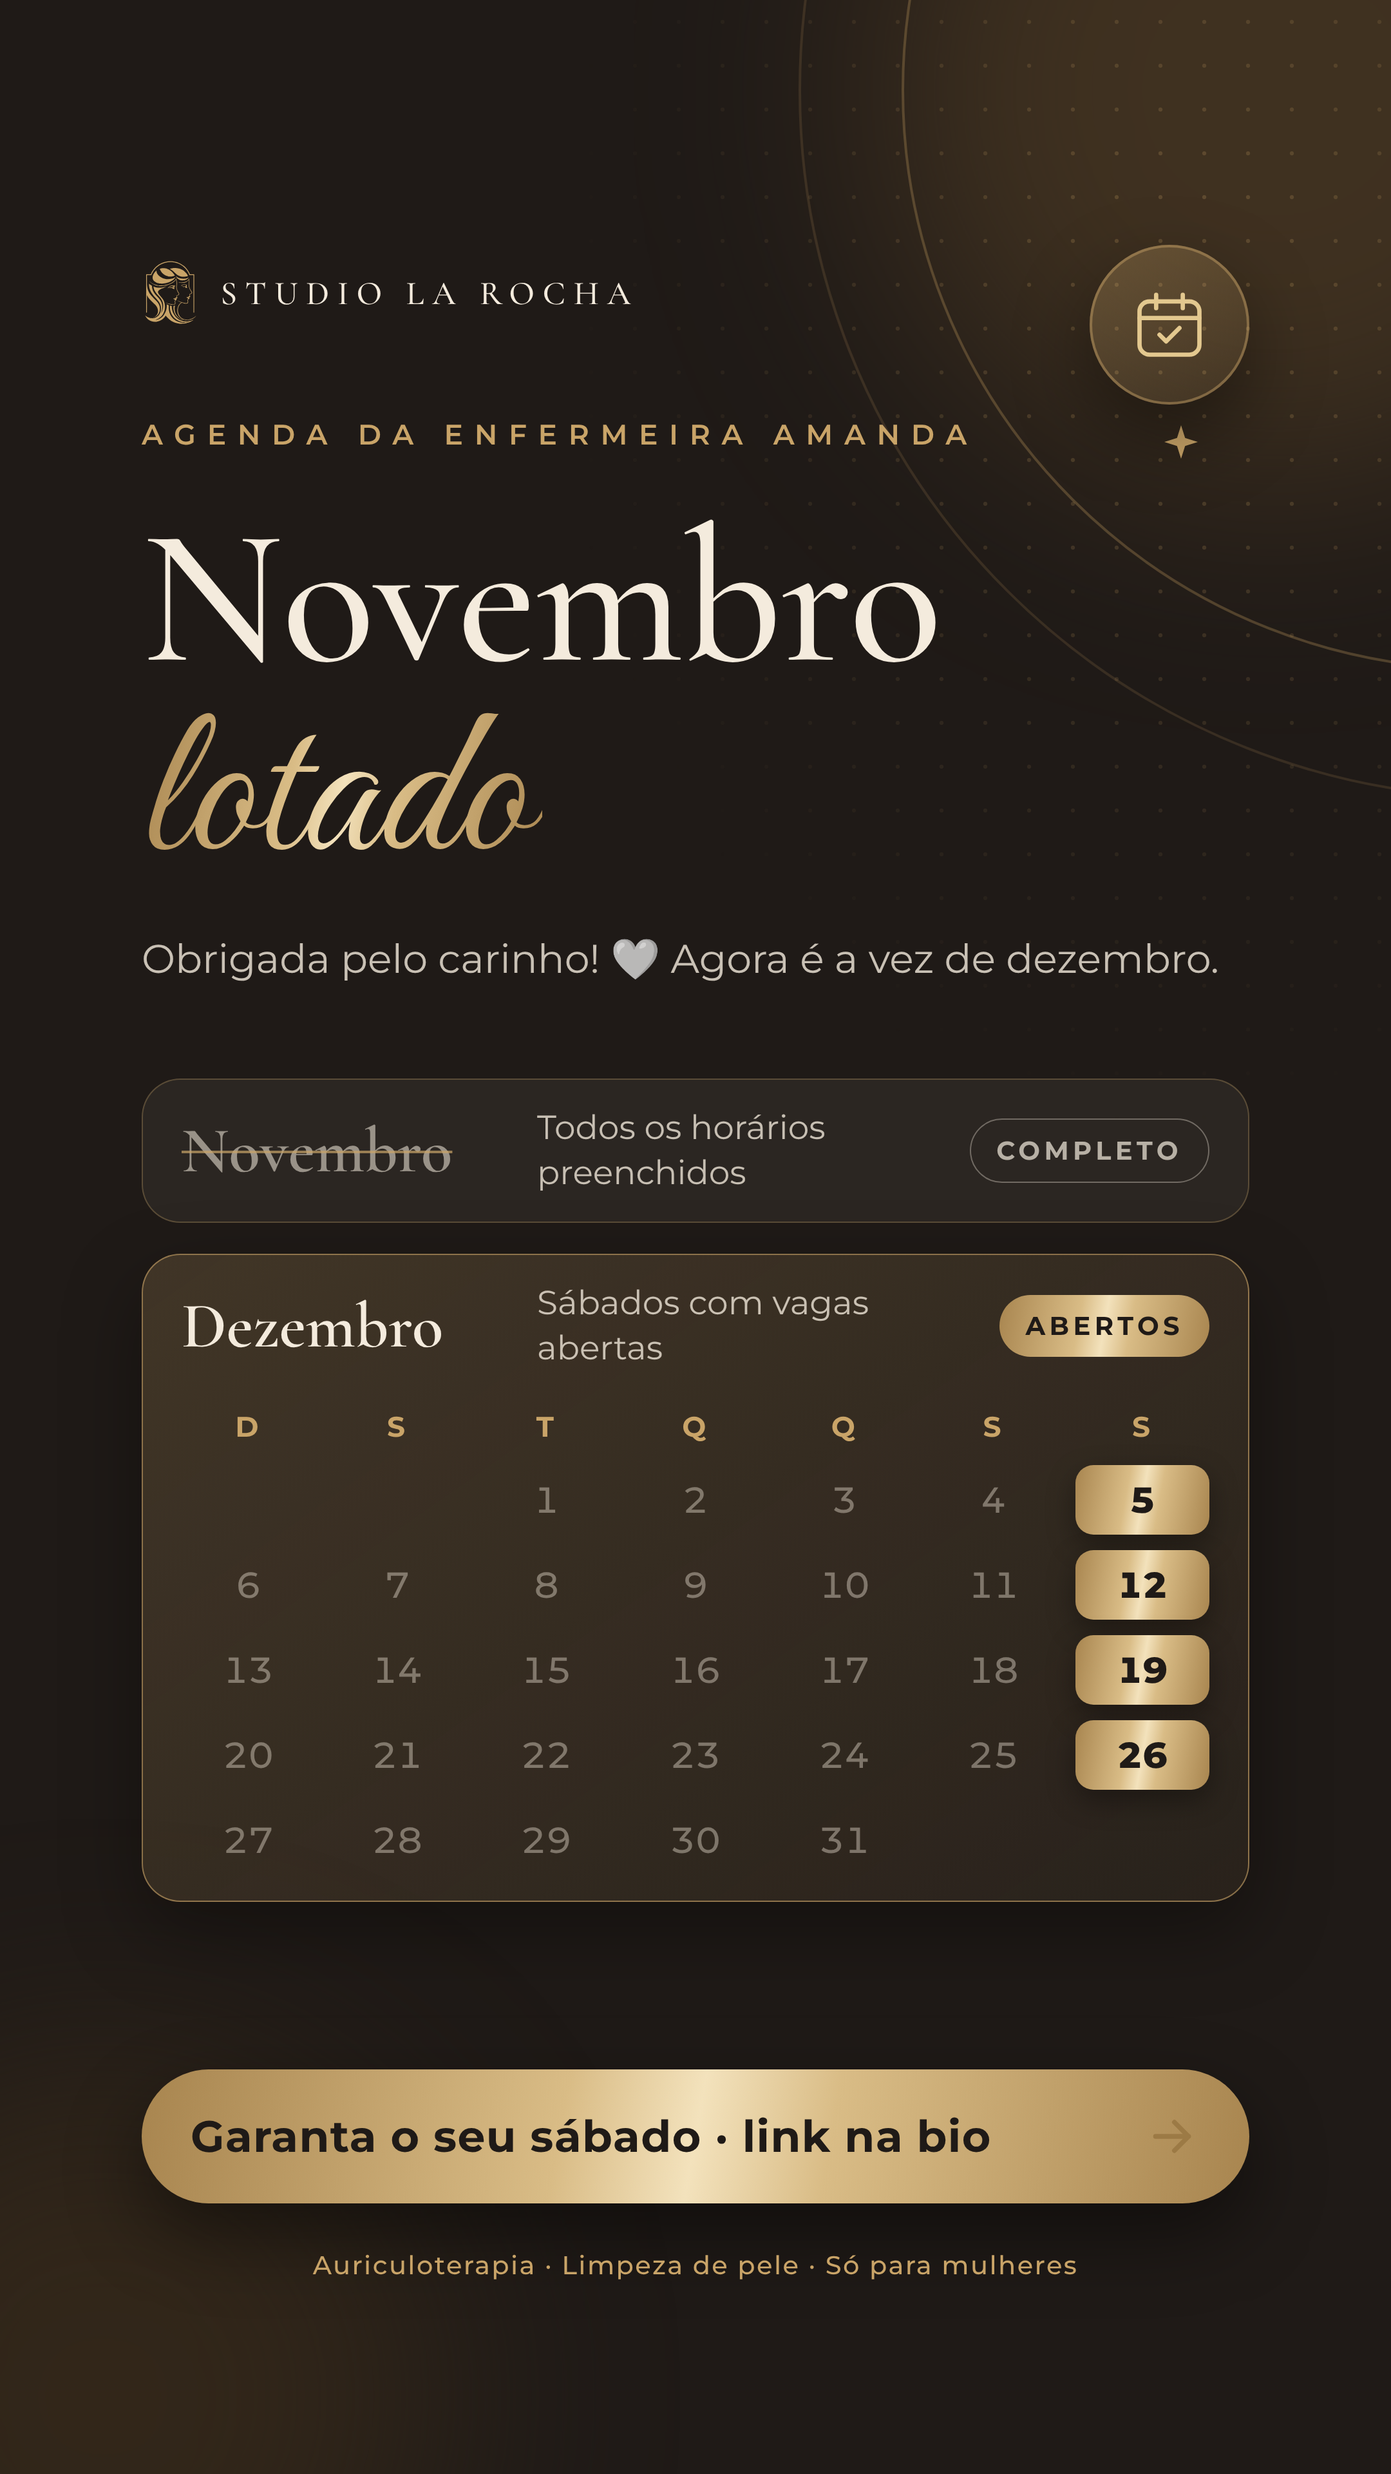
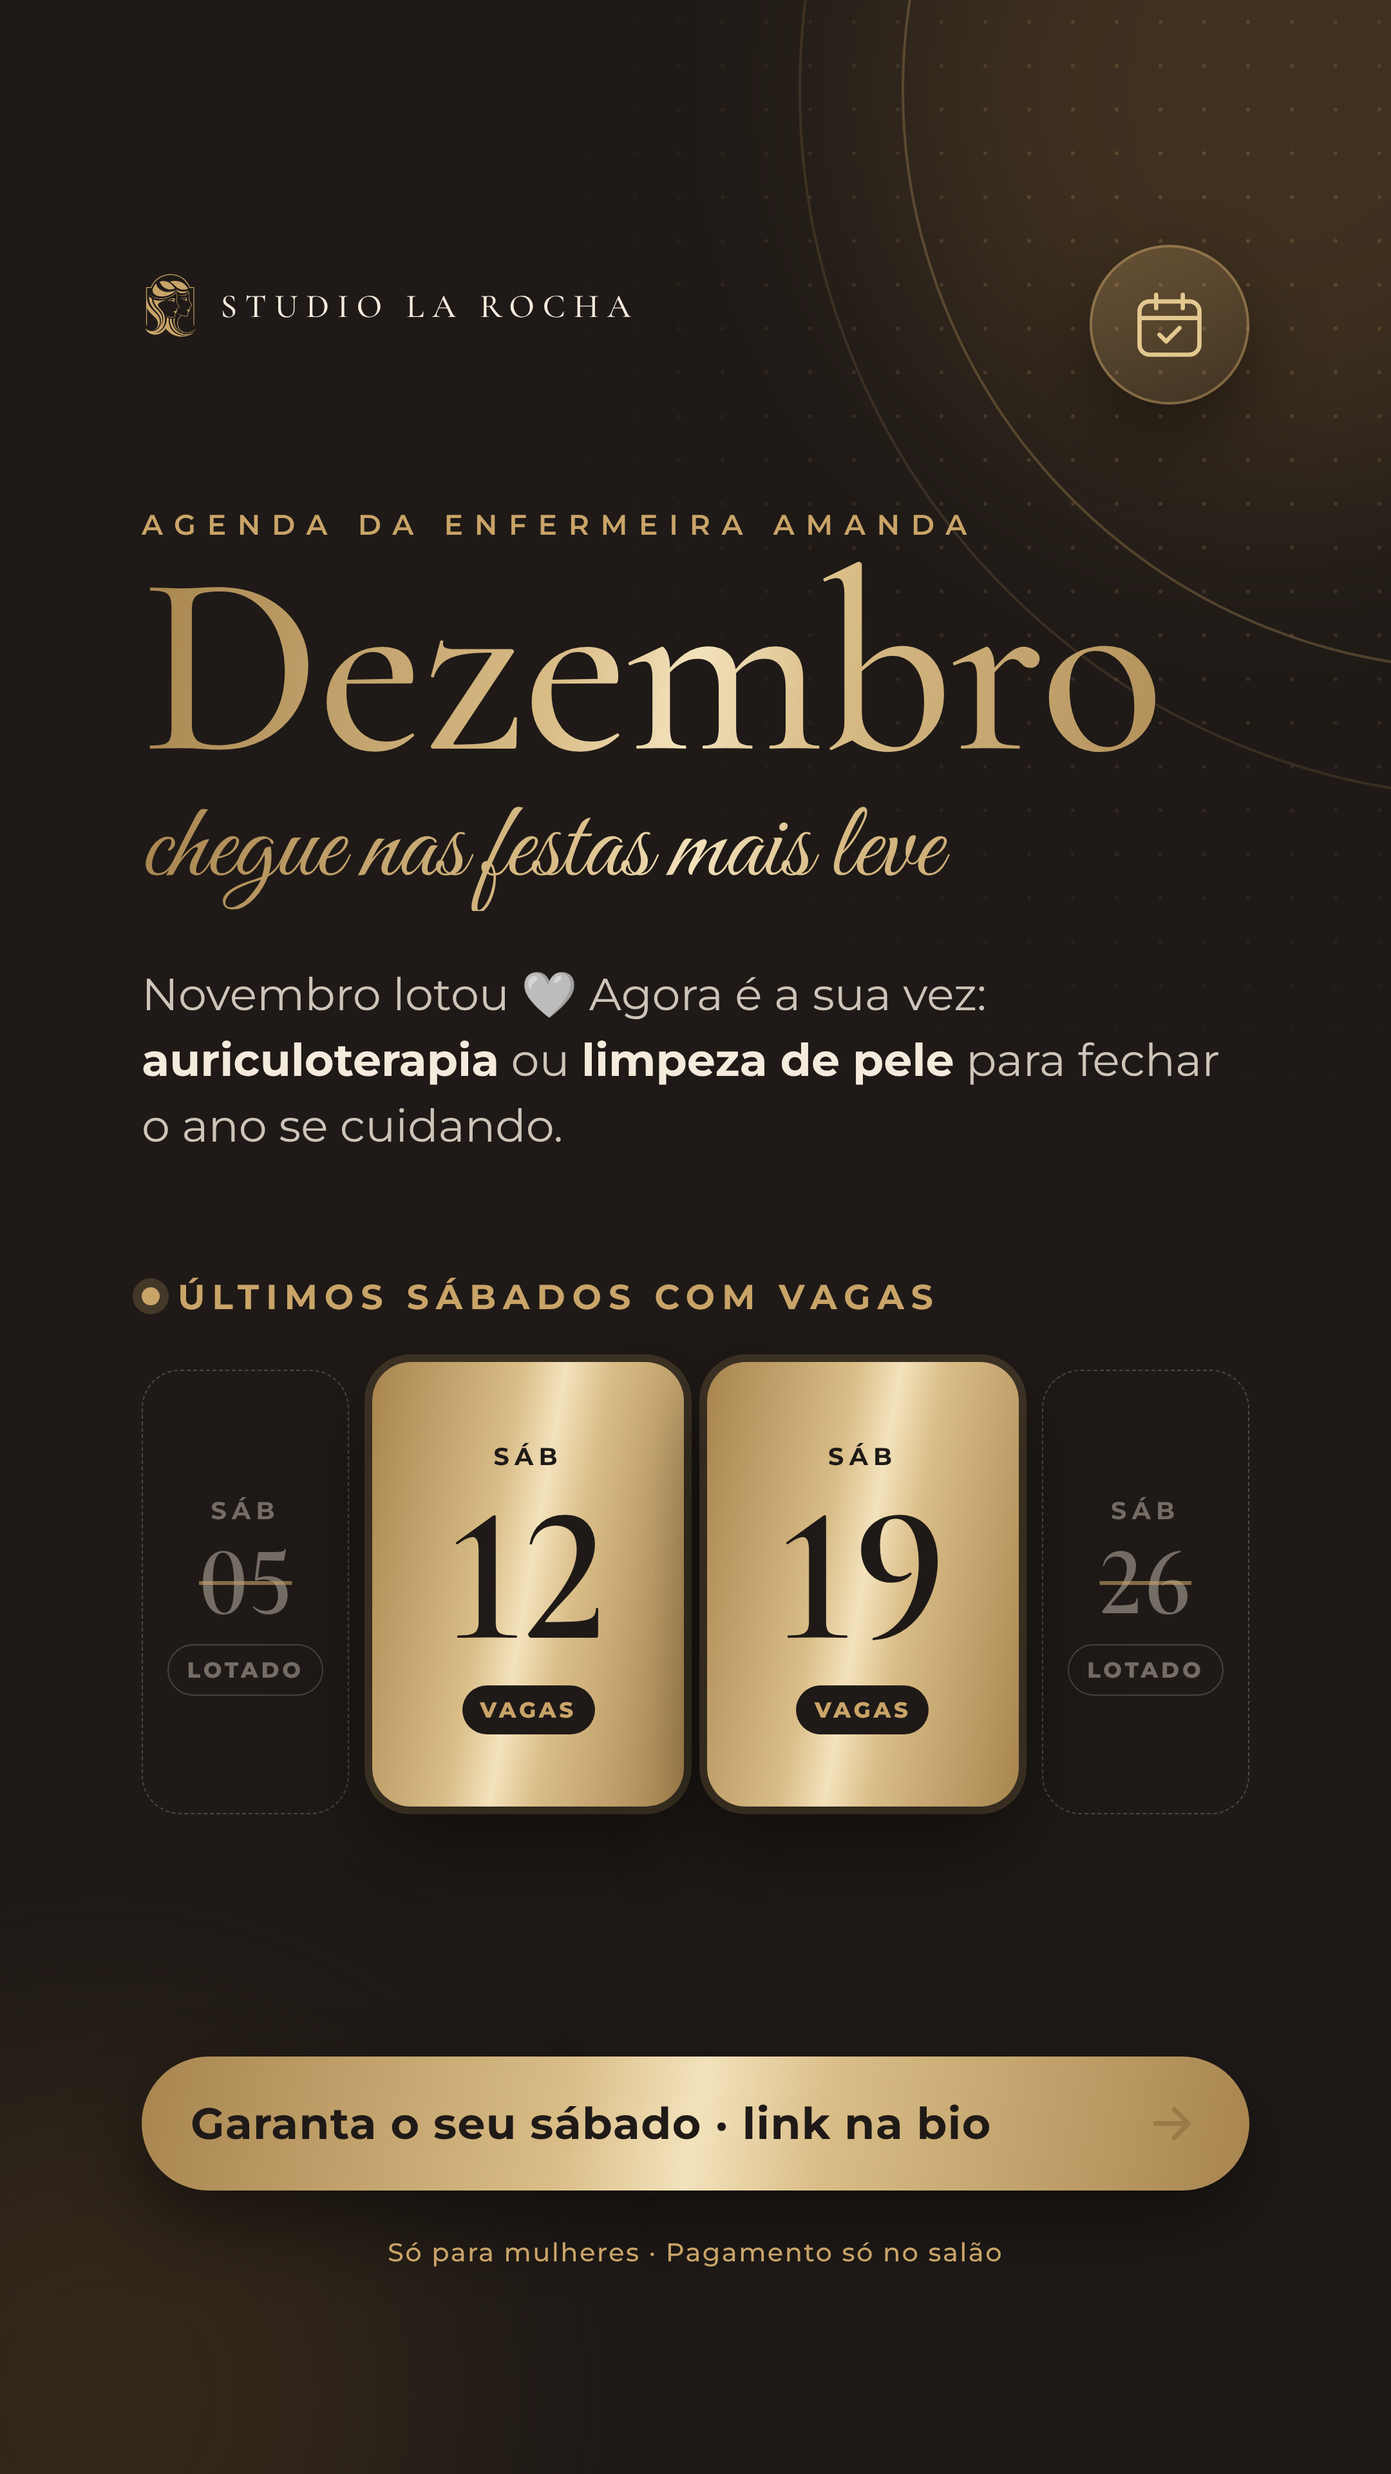
Aviso de agenda: dezembro em destaque, vagas só nos sábados 12 e 19
Claude-Session: https://claude.ai/code/session_01XzVqx6kG6obyTxXfpJ6DA2

diff --git a/instagram/fonte/aviso-agenda.html b/instagram/fonte/aviso-agenda.html
@@ -134,58 +134,61 @@
   .claro .aviso { color: var(--bronze); } .escuro .aviso { color: var(--ouro-c); }
 </style>
 <style>
-  .story { height: 1920px; padding-top: 200px; }
-  .ag .rotulo { margin-top: 70px; }
-  .ag .gancho { margin-top: 16px; font-size: 128px; }
-  .ag .sub2 { margin-top: 18px; font-size: 31px; line-height: 1.45; color: rgba(244,235,221,.8); }
-  .linhas { margin-top: 34px; display: grid; gap: 16px; }
-  .linha { display: flex; align-items: center; gap: 26px; padding: 20px 30px; border-radius: 30px; background: rgba(244,235,221,.06); border: 1.5px solid rgba(201,164,104,.3); }
-  .linha .mes { font-family: "Cormorant"; font-weight: 600; font-size: 50px; min-width: 250px; }
-  .linha .txt { flex: 1; font-size: 26px; line-height: 1.35; color: rgba(244,235,221,.78); }
-  .tag { flex: none; font-weight: 700; font-size: 20px; letter-spacing: .16em; text-transform: uppercase; padding: 12px 20px; border-radius: 99px; }
-  .tag.cheio { border: 1.5px solid rgba(244,235,221,.35); color: rgba(244,235,221,.7); }
-  .tag.aberto { background: var(--brilho); color: var(--escuro); }
-  .linha.off .mes { color: rgba(244,235,221,.55); text-decoration: line-through; text-decoration-thickness: 2px; text-decoration-color: rgba(201,164,104,.7); }
-  .linha.on { background: linear-gradient(145deg, rgba(201,164,104,.2), rgba(201,164,104,.06)); border-color: rgba(201,164,104,.6); box-shadow: 0 24px 60px rgba(0,0,0,.35); }
-  .cal { margin-top: 14px; display: grid; grid-template-columns: repeat(7, 1fr); gap: 4px 8px; text-align: center; }
-  .cal b { font-size: 18px; font-weight: 700; letter-spacing: .1em; color: var(--ouro-c); padding-bottom: 4px; }
-  .cal span { font-size: 22px; font-weight: 500; padding: 6px 0; border-radius: 14px; color: rgba(244,235,221,.4); font-variant-numeric: tabular-nums; }
-  .cal span.sab { background: var(--brilho); color: var(--escuro); font-weight: 800; box-shadow: 0 8px 22px rgba(0,0,0,.35); }
-  .cal span.vazio { visibility: hidden; }
-  .story .gancho { font-size: 150px; margin-top: 40px; }
-  .story .linhas { margin-top: 70px; gap: 24px; }
-  .story .cal { gap: 12px; margin-top: 30px; }
-  .story .cal span { font-size: 28px; padding: 10px 0; }
-  .story .cal b { font-size: 22px; }
-  .story .cta { bottom: 210px; }
-  .story .aviso { bottom: 150px; }
+  .story { height: 1920px; padding-top: 210px; }
+  .ag .rotulo { margin-top: 64px; }
+  .ag .mes { margin-top: 6px; font-family: "Cormorant"; font-weight: 500; font-size: 214px; line-height: .9; letter-spacing: -.01em; background: var(--brilho); -webkit-background-clip: text; background-clip: text; color: transparent; }
+  .ag .script { margin-top: 0; font-size: 74px; }
+  .ag .lead { margin-top: 26px; font-size: 31px; line-height: 1.45; color: rgba(244,235,221,.82); max-width: 860px; }
+  .ag .lead b { color: var(--marfim); }
+  .sabs { margin-top: 44px; display: grid; grid-template-columns: .8fr 1.2fr 1.2fr .8fr; gap: 16px; align-items: stretch; }
+  .sab { border-radius: 30px; text-align: center; padding: 24px 8px 22px; display: flex; flex-direction: column; align-items: center; justify-content: center; }
+  .sab small { font-weight: 700; font-size: 19px; letter-spacing: .22em; text-transform: uppercase; }
+  .sab strong { display: block; font-family: "Cormorant"; font-weight: 600; font-size: 92px; line-height: 1; margin: 6px 0 10px; font-variant-numeric: lining-nums; font-feature-settings: "lnum" 1; }
+  .sab span { font-weight: 800; font-size: 17px; letter-spacing: .14em; text-transform: uppercase; padding: 9px 14px; border-radius: 99px; }
+  .sab.off { border: 1.5px dashed rgba(244,235,221,.22); color: rgba(244,235,221,.4); }
+  .sab.off strong { font-size: 66px; text-decoration: line-through; text-decoration-thickness: 3px; text-decoration-color: rgba(201,164,104,.6); }
+  .sab.off span { border: 1.5px solid rgba(244,235,221,.2); }
+  .sab.on { background: var(--brilho); color: var(--escuro); box-shadow: 0 0 0 6px rgba(201,164,104,.18), 0 30px 70px rgba(0,0,0,.5); transform: translateY(-6px); }
+  .sab.on strong { font-size: 128px; }
+  .sab.on span { background: var(--escuro); color: var(--ouro-c); }
+  .story .mes { font-size: 200px; }
+  .story .rotulo { margin-top: 130px; }
+  .story .script { font-size: 84px; margin-top: 8px; }
+  .story .lead { font-size: 35px; margin-top: 40px; }
+  .story .sabs { margin-top: 40px; gap: 18px; }
+  .story .sab { padding: 62px 8px 56px; }
+  .story .sab.off strong { font-size: 76px; }
+  .story .sab.on strong { font-size: 150px; }
+  .story .cta { bottom: 220px; }
+  .story .aviso { bottom: 160px; }
   .story .selo-grande { top: 190px; }
+  .story .ultimas { margin-top: 90px; font-size: 27px; }
+  .ultimas { margin-top: 34px; display: inline-flex; align-items: center; gap: 14px; font-weight: 700; font-size: 24px; letter-spacing: .2em; text-transform: uppercase; color: var(--ouro-c); }
+  .ultimas i { width: 14px; height: 14px; border-radius: 50%; background: var(--ouro-c); box-shadow: 0 0 0 7px rgba(201,164,104,.22); }
 </style>
 </head>
 <body>
-<section class="post chamada escuro ag " id="agenda-feed"><i class="luz a"></i><i class="luz b"></i><div class="pontos"></div><div class="arco um"></div><div class="arco dois"></div><span class="faisca" style="width:26px;height:26px;top:330px;right:150px"><svg viewBox="0 0 10 10"><path fill="currentColor" d="M5 0l1.2 3.8L10 5 6.2 6.2 5 10 3.8 6.2 0 5l3.8-1.2z"/></svg></span>
+<section class="post chamada escuro ag " id="agenda-feed"><i class="luz a"></i><i class="luz b"></i><div class="pontos"></div><div class="arco um"></div><div class="arco dois"></div>
 <div class="topo"><div class="mini"><img src="simbolo-claro-transp.svg" alt="">STUDIO LA ROCHA</div></div>
 <div class="selo-grande"><svg viewBox="0 0 24 24" fill="none" stroke="#E3C88F" stroke-width="1.3" stroke-linecap="round" stroke-linejoin="round"><rect x="3" y="5" width="18" height="16" rx="3"/><path d="M3 10h18M8 3v4M16 3v4"/><path d="M9 15l2 2 4-4"/></svg></div>
 <div class="rotulo">Agenda da enfermeira Amanda</div>
-<h2 class="gancho">Novembro <em>lotado</em></h2>
-<p class="sub2">Obrigada pelo carinho! 🤍 Agora é a vez de dezembro.</p>
-<div class="linhas">
-  <div class="linha off"><span class="mes">Novembro</span><span class="txt">Todos os horários preenchidos</span><span class="tag cheio">Completo</span></div>
-  <div class="linha on"><div style="flex:1"><div style="display:flex;align-items:center;gap:26px"><span class="mes">Dezembro</span><span class="txt">Sábados com vagas abertas</span><span class="tag aberto">Abertos</span></div><div class="cal"><b>D</b><b>S</b><b>T</b><b>Q</b><b>Q</b><b>S</b><b>S</b><span class="vazio">0</span><span class="vazio">0</span><span>1</span><span>2</span><span>3</span><span>4</span><span class="sab">5</span><span>6</span><span>7</span><span>8</span><span>9</span><span>10</span><span>11</span><span class="sab">12</span><span>13</span><span>14</span><span>15</span><span>16</span><span>17</span><span>18</span><span class="sab">19</span><span>20</span><span>21</span><span>22</span><span>23</span><span>24</span><span>25</span><span class="sab">26</span><span>27</span><span>28</span><span>29</span><span>30</span><span>31</span><span class="vazio">0</span><span class="vazio">0</span></div></div></div>
-</div>
+<div class="mes">Dezembro</div>
+<div class="script">chegue nas festas mais leve</div>
+<p class="lead">Novembro lotou 🤍 Agora é a sua vez: <b>auriculoterapia</b> ou <b>limpeza de pele</b> para fechar o ano se cuidando.</p>
+<div class="ultimas"><i></i>Últimos sábados com vagas</div>
+<div class="sabs"><div class="sab off"><small>Sáb</small><strong>05</strong><span>Lotado</span></div><div class="sab on"><small>Sáb</small><strong>12</strong><span>Vagas</span></div><div class="sab on"><small>Sáb</small><strong>19</strong><span>Vagas</span></div><div class="sab off"><small>Sáb</small><strong>26</strong><span>Lotado</span></div></div>
 <div class="cta"><span>Garanta o seu sábado · link na bio</span><svg viewBox="0 0 24 24" fill="none" stroke="#9C7A45" stroke-width="2" stroke-linecap="round" stroke-linejoin="round"><path d="M5 12h14M13 6l6 6-6 6"/></svg></div>
-<div class="aviso">Auriculoterapia · Limpeza de pele · Só para mulheres</div></section>
-<section class="post chamada escuro ag story" id="agenda-story"><i class="luz a"></i><i class="luz b"></i><div class="pontos"></div><div class="arco um"></div><div class="arco dois"></div><span class="faisca" style="width:26px;height:26px;top:330px;right:150px"><svg viewBox="0 0 10 10"><path fill="currentColor" d="M5 0l1.2 3.8L10 5 6.2 6.2 5 10 3.8 6.2 0 5l3.8-1.2z"/></svg></span>
+<div class="aviso">Só para mulheres · Pagamento só no salão</div></section>
+<section class="post chamada escuro ag story" id="agenda-story"><i class="luz a"></i><i class="luz b"></i><div class="pontos"></div><div class="arco um"></div><div class="arco dois"></div>
 <div class="topo"><div class="mini"><img src="simbolo-claro-transp.svg" alt="">STUDIO LA ROCHA</div></div>
 <div class="selo-grande"><svg viewBox="0 0 24 24" fill="none" stroke="#E3C88F" stroke-width="1.3" stroke-linecap="round" stroke-linejoin="round"><rect x="3" y="5" width="18" height="16" rx="3"/><path d="M3 10h18M8 3v4M16 3v4"/><path d="M9 15l2 2 4-4"/></svg></div>
 <div class="rotulo">Agenda da enfermeira Amanda</div>
-<h2 class="gancho">Novembro <em>lotado</em></h2>
-<p class="sub2">Obrigada pelo carinho! 🤍 Agora é a vez de dezembro.</p>
-<div class="linhas">
-  <div class="linha off"><span class="mes">Novembro</span><span class="txt">Todos os horários preenchidos</span><span class="tag cheio">Completo</span></div>
-  <div class="linha on"><div style="flex:1"><div style="display:flex;align-items:center;gap:26px"><span class="mes">Dezembro</span><span class="txt">Sábados com vagas abertas</span><span class="tag aberto">Abertos</span></div><div class="cal"><b>D</b><b>S</b><b>T</b><b>Q</b><b>Q</b><b>S</b><b>S</b><span class="vazio">0</span><span class="vazio">0</span><span>1</span><span>2</span><span>3</span><span>4</span><span class="sab">5</span><span>6</span><span>7</span><span>8</span><span>9</span><span>10</span><span>11</span><span class="sab">12</span><span>13</span><span>14</span><span>15</span><span>16</span><span>17</span><span>18</span><span class="sab">19</span><span>20</span><span>21</span><span>22</span><span>23</span><span>24</span><span>25</span><span class="sab">26</span><span>27</span><span>28</span><span>29</span><span>30</span><span>31</span><span class="vazio">0</span><span class="vazio">0</span></div></div></div>
-</div>
+<div class="mes">Dezembro</div>
+<div class="script">chegue nas festas mais leve</div>
+<p class="lead">Novembro lotou 🤍 Agora é a sua vez: <b>auriculoterapia</b> ou <b>limpeza de pele</b> para fechar o ano se cuidando.</p>
+<div class="ultimas"><i></i>Últimos sábados com vagas</div>
+<div class="sabs"><div class="sab off"><small>Sáb</small><strong>05</strong><span>Lotado</span></div><div class="sab on"><small>Sáb</small><strong>12</strong><span>Vagas</span></div><div class="sab on"><small>Sáb</small><strong>19</strong><span>Vagas</span></div><div class="sab off"><small>Sáb</small><strong>26</strong><span>Lotado</span></div></div>
 <div class="cta"><span>Garanta o seu sábado · link na bio</span><svg viewBox="0 0 24 24" fill="none" stroke="#9C7A45" stroke-width="2" stroke-linecap="round" stroke-linejoin="round"><path d="M5 12h14M13 6l6 6-6 6"/></svg></div>
-<div class="aviso">Auriculoterapia · Limpeza de pele · Só para mulheres</div></section>
+<div class="aviso">Só para mulheres · Pagamento só no salão</div></section>
 </body>
 </html>

diff --git a/CLAUDE.md b/CLAUDE.md
@@ -66,7 +66,7 @@ Este arquivo é a memória do projeto. Quem continuar o trabalho (Claude ou pess
 ## 8. Instagram do salão — estado
 - **Posts refeitos (nov/2026)** porque a Amanda achou "as duas mulheres" sem sentido: agora diretos, sem texto sentimental. Ordem: 1 Apresentação (4 serviços + inauguração em breve), 2 Cabelo (Sandra), 3 Unhas (Sandra), 4 Saúde (Amanda), 5 Em breve (novos serviços e novas profissionais), 6 Agendar. Fonte: `instagram/fonte/feed.html`; gerar com `node exportar-feed.cjs` (2160x2700). Legendas em `instagram/LEIA-ME.txt`. Falta a Sandra e a Amanda aprovarem por escrito, e o Kevin postar. Não citar preço, horário, data, nem "desencravar unha" nos posts.
 - **3 posts de chamada** (gancho para prender atenção; a Amanda posta): Auriculoterapia ("Cabeça a mil? Sono leve?"), Limpeza de pele ("Pele cansada?"), Manicure e pedicure. Fonte `instagram/fonte/chamadas.html`, `node exportar-chamadas.cjs`; legendas na seção 3a do LEIA-ME. Saúde: só "pode ajudar" + aviso; sem prometer resultado. Pedicure já é oferecida (sem selo "em breve").
-- **Aviso de agenda da Amanda (nov/2026):** "Novembro lotado" + calendário de dezembro com sábados (5, 12, 19, 26) abertos; feed e story. Fonte `instagram/fonte/aviso-agenda.html`. Para meses seguintes, trocar mês e dias no gerador.
+- **Aviso de agenda da Amanda (nov/2026):** destaque em "Dezembro"; sábados 5 e 26 lotados, 12 e 19 com vagas (gatilho de escassez real, sem inventar); feed e story. Fonte `instagram/fonte/aviso-agenda.html` (lista `SABADOS` no topo do gerador, já gravada no HTML).
 - Bio: `Studio La Rocha | Salão em Mauá` / "Beleza, saúde e bem-estar ✨ / Cabelo · Unhas · Auriculoterapia · Limpeza de pele / Por @sandraaparecida5566 e @amandarochaat / 📍 Mauá - SP · Agende 👇". Trocar o link da bio e do WhatsApp Business para o domínio (HTTPS).
 - Próximo passo estratégico: **dia de fotos** (Sandra + Amanda juntas, retratos individuais, espaço/cadeiras/lavatório/maca, vídeo curto de 10–15s) e então carrossel, Reels e destaques com foto. Perfil só com arte ainda parece "vazio".
 
